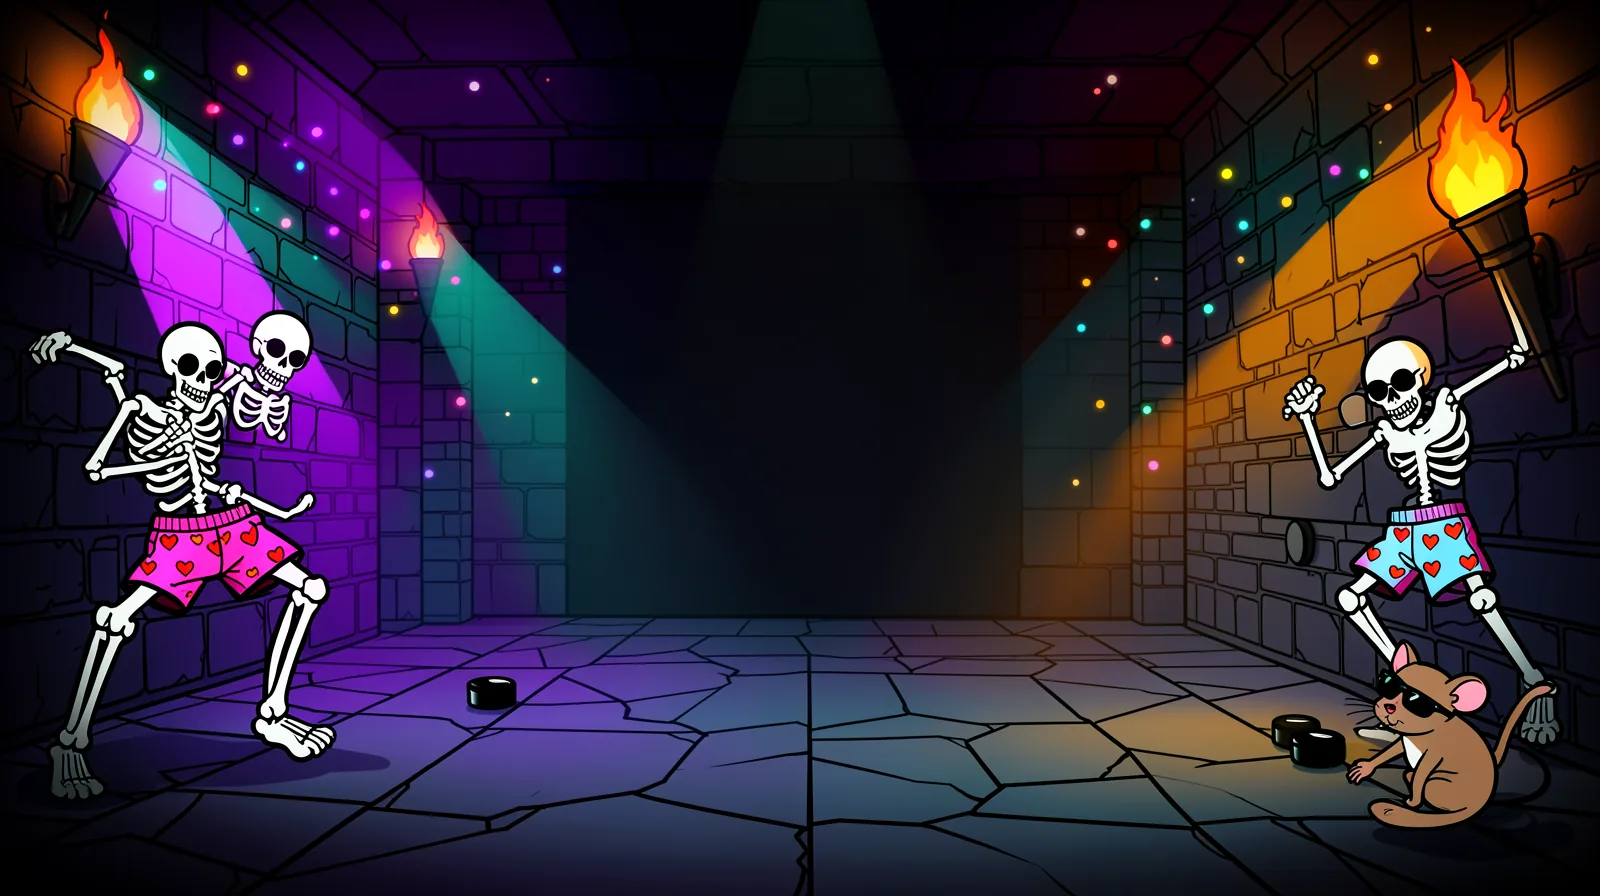
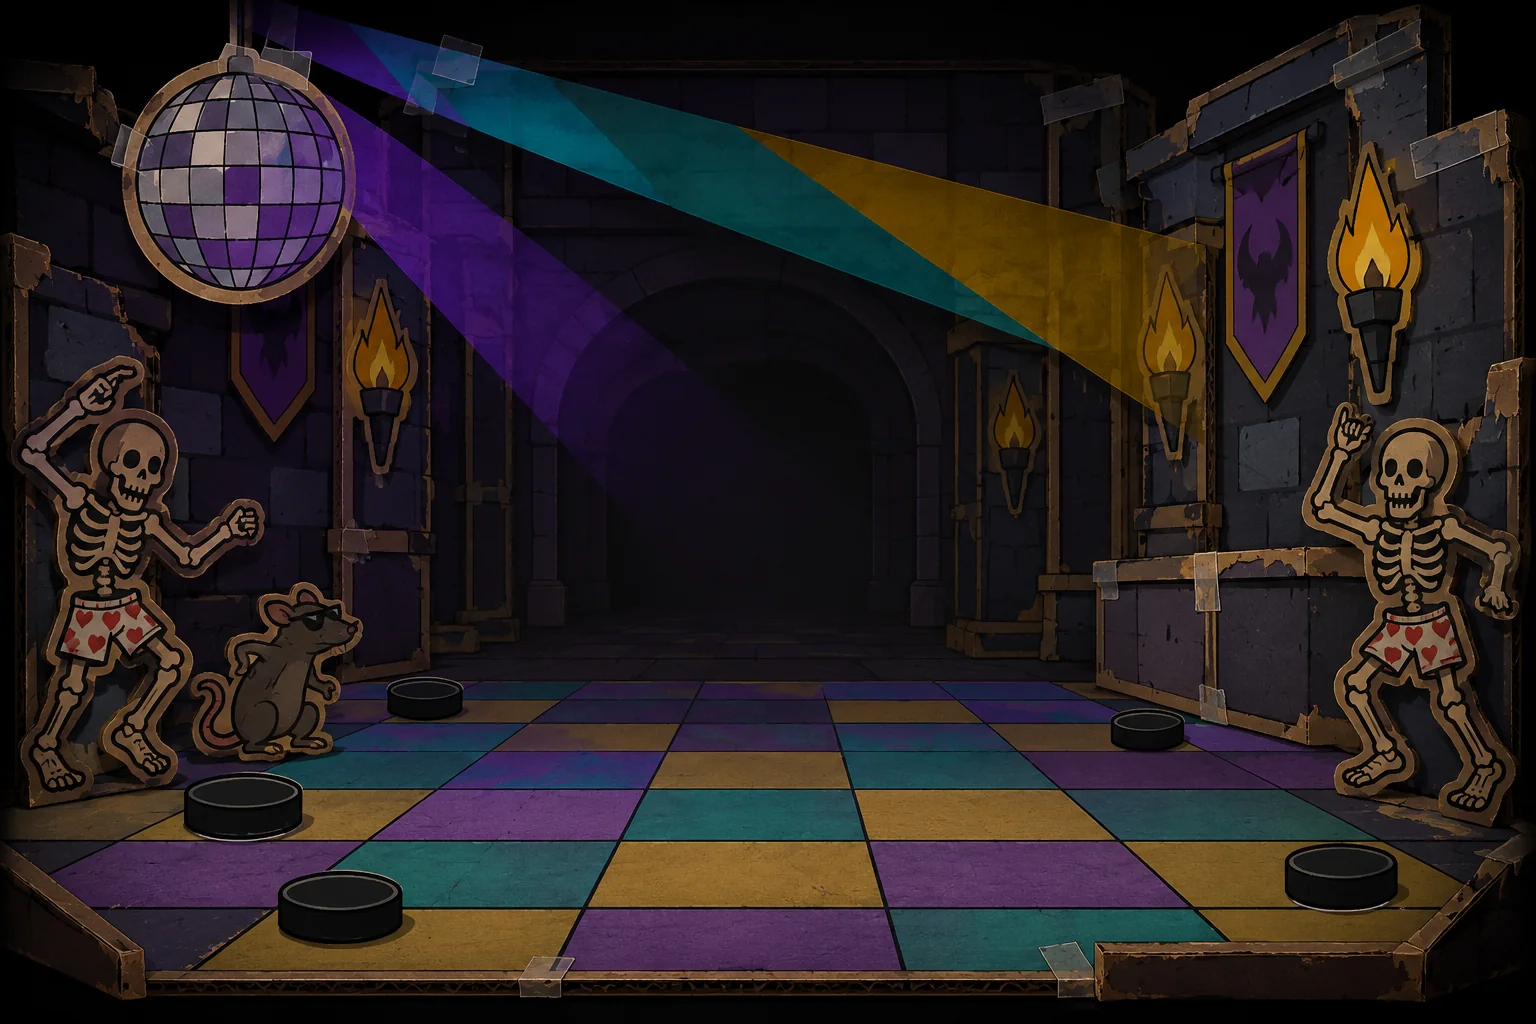
Main menu background: a cardboard disco in the dungeon
The menu (and its windows) now sit over a cardboard diorama: a mirror
ball, cellophane spotlights, a checkered dance floor, and die-cut
skeletons and a rat dancing at the edges. Wide picture for landscape,
tall one for an upright phone.

Claude-Session: https://claude.ai/code/session_01V8xWBxKa8eqEAfTiZYrXPD

diff --git a/README.md b/README.md
@@ -103,7 +103,7 @@ npm run build    # сборка в dist/
 | `hp_empty`, `hp_full`, `hp_shield` | полоса «Мягкий перехват» по эскизу Владислава: высокий левый край, сверху провал с уступом, талия, правый конец скошен; пустая, красная и голубая одной формы, 1024×319 | здоровье героя в углу: снизу пустая, поверх красная по доле здоровья и голубая по доле щита; красное идёт от x 42 до 975 из 1024, растягивается только целиком |
 | `spk_1_on` … `spk_3_off` | один длинный кристалл «Острие к скиллу», расколотый на три куска (отломанный левый конец, острие справа), горящий и потухший у каждого; высота 124, ширина 284, 310 и 290 | полоска искр: куски стоят вплотную, каждый своей ширины, и складываются в целый кристалл |
 | `ab_<герой>` | однотонный кремовый значок способности: щит, летящая шайба, пламя | в кристалле способности вместо её названия |
-| `menu_bg`, `menu_bg_tall` | подвал с танцующими скелетами, широкий и высокий | фон главного меню и его окон, высокий на стоячем телефоне |
+| `menu_bg`, `menu_bg_tall` | картонная дискотека в подземелье: зеркальный шар, танцпол, скелеты-вырезки; широкий и высокий | фон главного меню и его окон, высокий на стоячем телефоне |
 
 ## Устройство кода
 
